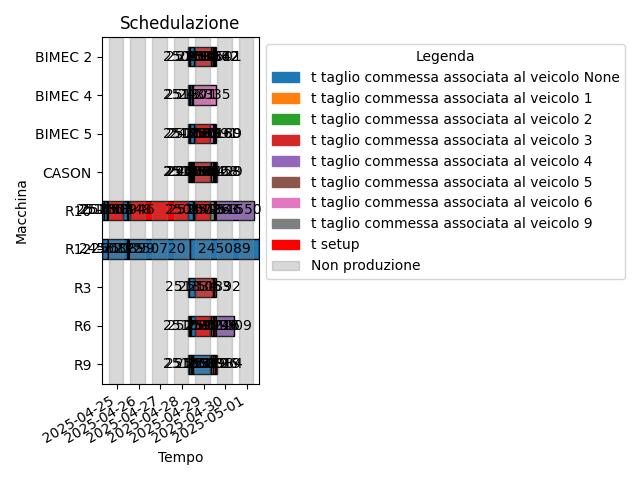
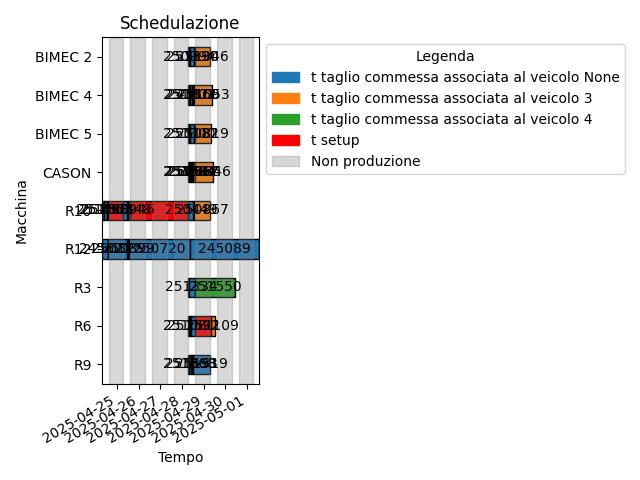
Aggiustamenti post-riunione

diff --git a/PS-VRP/solver.py b/PS-VRP/solver.py
@@ -82,17 +82,12 @@ def filtro_commesse(lista_commesse:list,lista_veicoli):
         elif 0 in commessa.zona_cliente: #filtro separatamente le commesse con zona "zero" (ovvero senza zona indicata)
             commesse_da_schedulare.append(commessa)
     for commessa in commesse_da_tagliare:
-        max_data_partenza = max(v.data_partenza for v in lista_veicoli_disponibili if v.data_partenza is not None)
         #print(max_data_partenza)
         for veicolo in lista_veicoli_disponibili:
             #if veicolo.zone_coperte in commessa.zona_cliente and commessa.due_date>=veicolo.data_partenza:#commessa.due_date<=veicolo.data_partenza:
-            if veicolo.zone_coperte in commessa.zona_cliente and commessa.release_date<veicolo.data_partenza and commessa.due_date<=max_data_partenza:#commessa.due_date<=veicolo.data_partenza:
+            if veicolo.zone_coperte in commessa.zona_cliente and commessa.release_date<veicolo.data_partenza:#commessa.due_date<=veicolo.data_partenza:
                 commesse_da_schedulare.append(commessa)
                 break
-            elif commessa.due_date>max_data_partenza:
-                commesse_oltre_data[commessa.id_commessa] = (
-                        f'La commessa non viene assegnata al veicolo {veicolo.nome} in quanto la sua due date ({commessa.due_date}) è oltre la data massima di partenza dei veicoli ({max_data_partenza})'
-                        )
             #elif veicolo.zone_coperte not in commessa.zona_cliente:
             #    print(f'Il veicolo {veicolo.nome} non copre la commessa {commessa.id_commessa}')
         #creazione di un dizionario per commesse filtrate (da tutte le commesse a solo quelle fattibili in base alle zone aperte)
